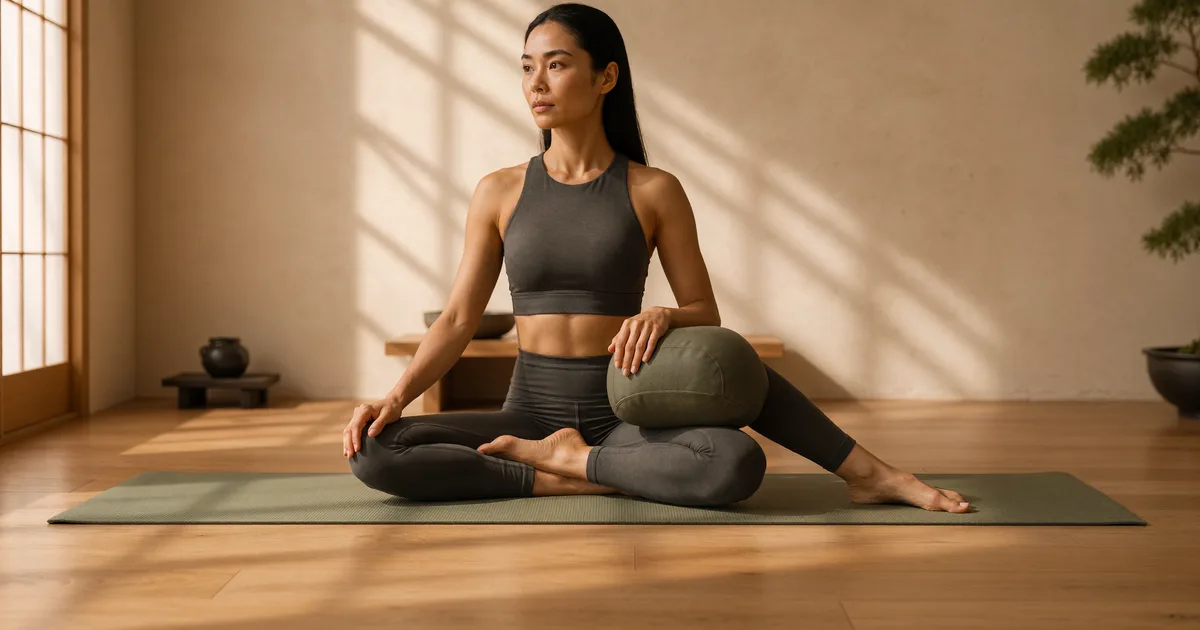
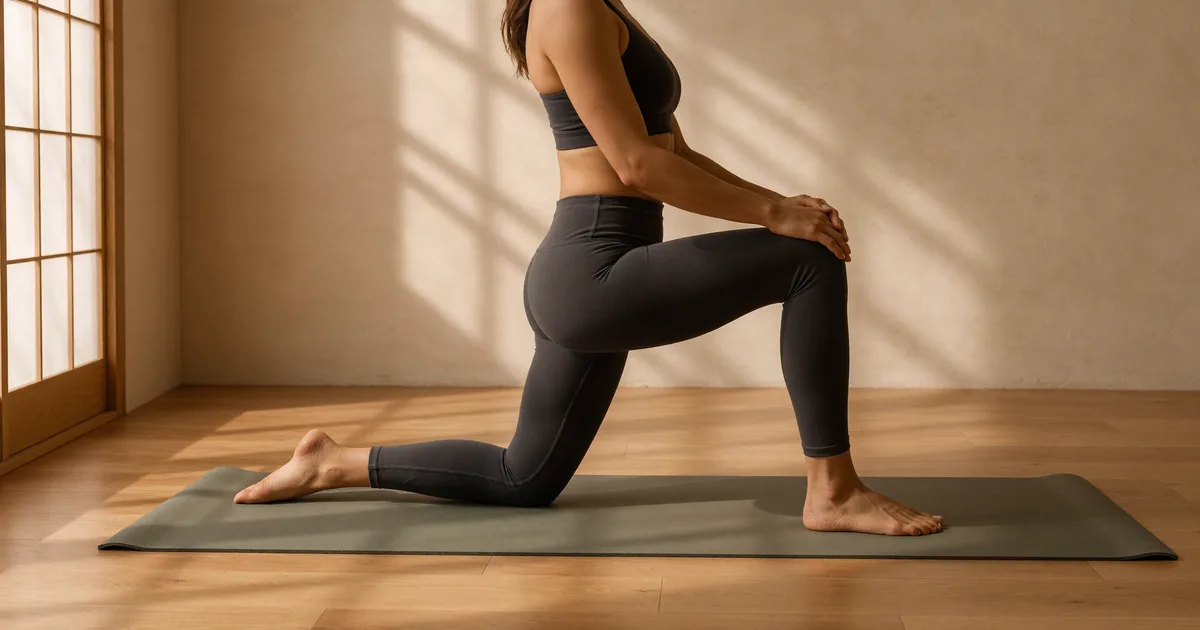
fix(content): replace bad-knees hero — AI anatomy artifact (extra leg)
The first hero (cross-legged seat + bolster) produced an anatomically
broken pose reading as a third leg. Replaced with a clean side-view
low lunge (back knee on mat) — anatomically correct, knee-on-mat context,
face decorative/out of focus. Soul-generated, decorative use only.

diff --git a/public/images/guides/best-yoga-mat-for-bad-knees/prompts/hero.md b/public/images/guides/best-yoga-mat-for-bad-knees/prompts/hero.md
@@ -4,8 +4,8 @@
 - **Soul ref:** `aiko` (`cd51dd12-40a3-40a1-ba68-065ee2d38e41`)
 - **Aspect / quality:** 16:9, 2k → resized to 1200×630 webp (q82)
 - **Use:** decorative hero / og:image only. NOT a named persona, NOT an author/tester claim. Byline on the page is Marvin.
-- **Generated:** 2026-05-29
+- **Generated:** 2026-05-29 (v2 — replaced a first version that had an AI anatomy artifact / extra leg from a cross-legged + bolster composition; this side-view low lunge has clean, unambiguous anatomy)
 
 ## Prompt
 
-Calm editorial wellness photograph, side view of a woman in a low lunge with her back knee resting on a thick sage green yoga mat, hands framing the front foot, the cushioned knee-on-mat contact in focus, minimalist Japanese-inspired studio, warm wooden floor, shoji screen, cream plaster wall, warm morning light, soft shadows, charcoal high-neck yoga set, premium editorial photography, photorealistic, shallow depth of field, face not the focus, no logos, no text, no influencer pose
+Calm editorial wellness photograph, clear side profile view of a woman in a low lunge, her back knee resting on a thick sage green yoga mat, front foot flat on the mat, torso upright and relaxed, anatomically correct with exactly two legs clearly separated, simple clean composition, minimalist Japanese-inspired studio, warm wooden floor, shoji screen, warm morning light, soft shadows, charcoal yoga set, premium editorial photography, photorealistic, face not the focus, no extra limbs, no logos, no text
